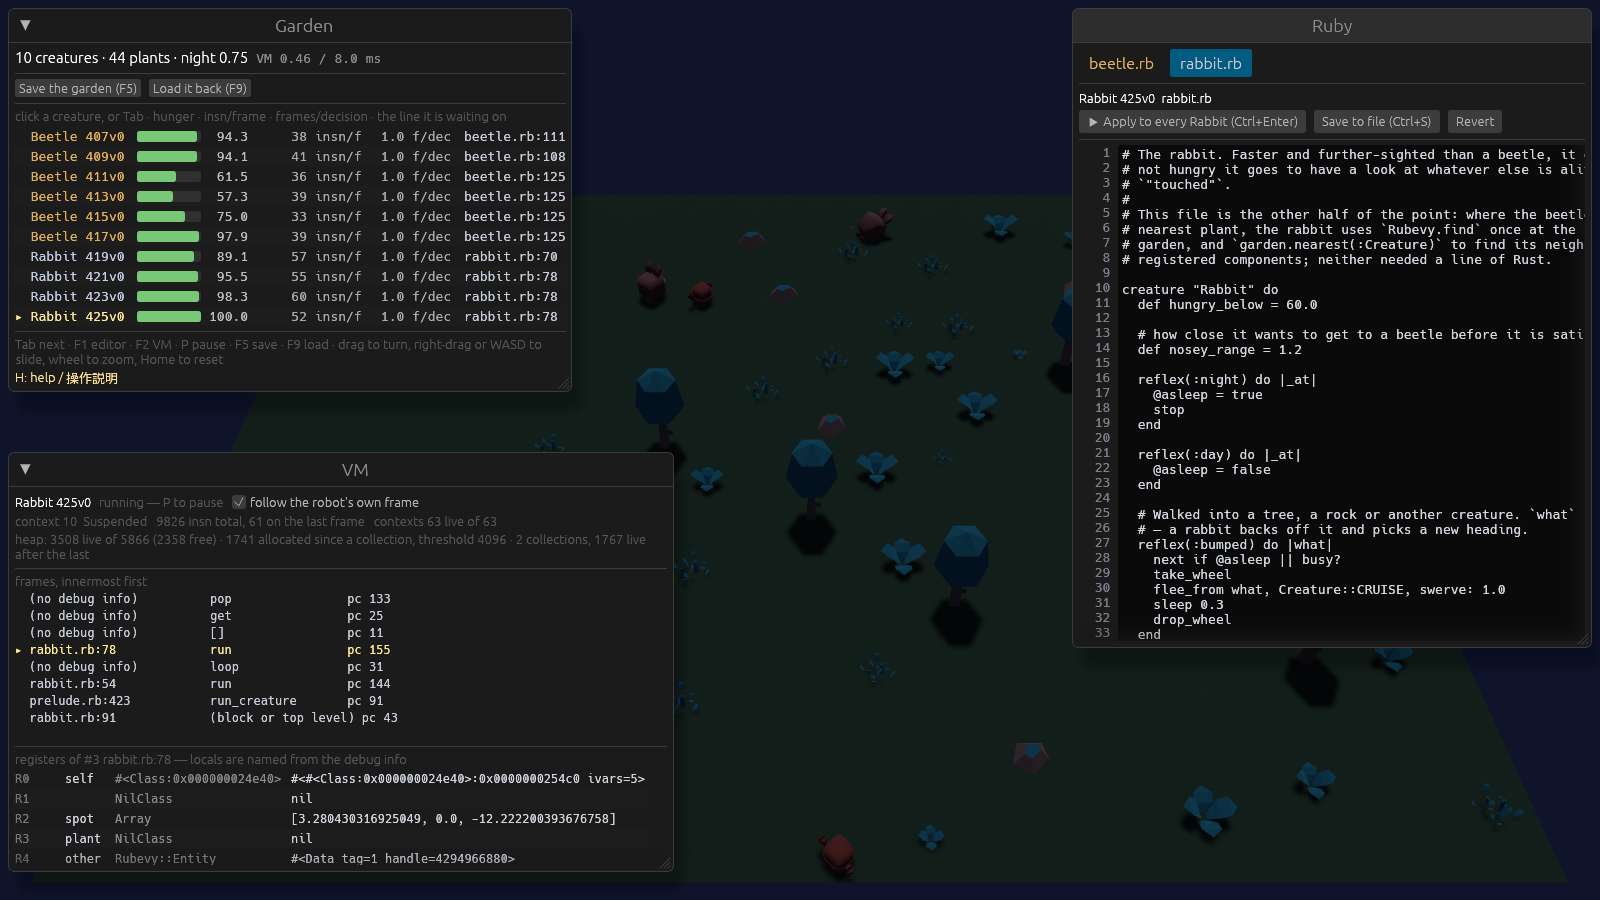
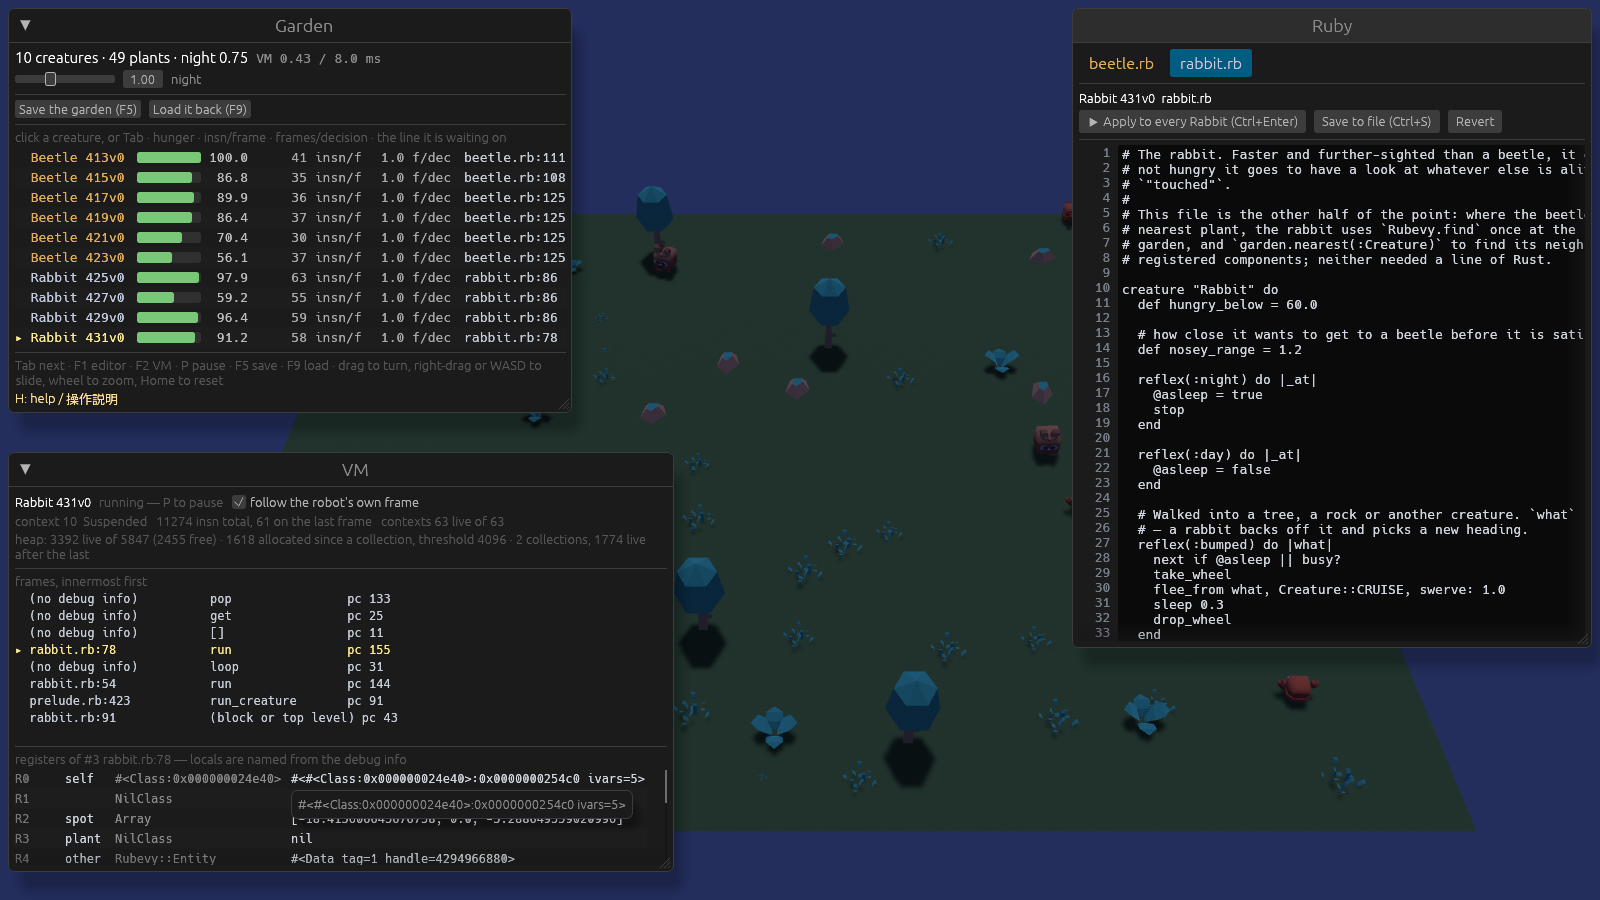
garden: a night that can be seen, and a dial for the author to settle it
The author played the browser build again and the night was still too dark —
the second time a brightness chosen here has been wrong on the screen it is
actually looked at. So this is two changes, and the second is the point.

**The numbers.** The target was given as a figure: 40 to 50 out of 255 for the
mean luminance of the ground at midnight, where G6 measured 26 and an
afternoon measures 81. Four `--shot --at midnight` pictures, measured on G6's
crop, gave the multiplier; the moon goes 400 → 950 lux, the ambient 55 → 190
and the night sky 0.06,0.08,0.17 → 0.14,0.18,0.36, and midnight now measures
44.3. What the search also said is that the ambient is worth almost nothing to
that number (110 → 190 moved it by 1.9) and is in the picture for what it does
to the creatures, not to the mean.

The moon is now close to the dimmest daylight (1,200 lux), which G6 kept a gap
under on purpose — and measuring either side of sunset says that gap was never
what made day and night different. The moon is aimed at `-up`: at sunset it
lies along the horizon and lights nothing (24), at midnight it is overhead
(44), and dusk itself reads 39. The night is a hill, and 950 is its top.

**The dial.** `NightDial`, a slider in the Garden panel, 0.50 to 2.00,
multiplying all three of those together. One dial and not three, because the
question is "how bright does this have to be on your screen" and three
would hand a design decision to whoever asked it. The number is written to the
[…]

diff --git a/garden/src/main.rs b/garden/src/main.rs
@@ -70,22 +70,64 @@ const DAWN_OFFSET: f32 = 0.08;
 /// the garden has.
 const MIDNIGHT: f32 = (0.75 - DAWN_OFFSET) * DAY_LENGTH;
 
-/// **How dark the night is (G6).** The author played the browser build and could not see the
-/// creatures or the trees at night at all, so both numbers below are floors rather than the
-/// nothing they used to be — moonlight, not a power cut.
+/// **How dark the night is (G6, and again in G6b).** The author played the browser build and
+/// could not see the creatures or the trees at night at all; G6 raised these to 400 and 55 and
+/// the author played it again and said it was *still* too dark. These are the third set, chosen
+/// against a number this time: the mean luminance of the ground at midnight, measured off a
+/// `--shot --at midnight` in the strip the panels do not cover, is **44 of 255** where G6's was
+/// 26 and an afternoon is 81.
 ///
 /// `MOON_LUX` is the `DirectionalLight` that stands in for the moon. It is what draws the *edges*:
 /// a creature has a lit side and a shadowed side, and the tree trunks have a direction. The real
-/// moon is about 0.1 lux and this is four thousand times that, which is honest — a night in a
-/// game has to be read, and a photograph of a real moonlit field needs a long exposure to look
-/// like this. What it must not be is the sun: the dimmest *day* the garden has is 1,200 lux at
-/// the horizon, and 400 keeps a clear gap under it.
+/// moon is about 0.1 lux and this is ten thousand times that, which is honest — a night in a game
+/// has to be read, and a photograph of a real moonlit field needs a long exposure to look like
+/// this.
+///
+/// It is close to the *day's* floor now (1,200 lux, the sun on the horizon), which G6 kept a wide
+/// gap under, and measuring either side of sunset says that gap is not what the difference was
+/// made of: dusk reads 39 and the first minute of night reads 24, because **the moon is aimed at
+/// `-up`** — at sunset it lies along the horizon and lights nothing, and only by midnight is it
+/// overhead. The night has a curve of its own, dark at both ends, and the number chosen here is
+/// the number at the top of it.
 ///
 /// `NIGHT_AMBIENT` is what fills the shadowed side, and it is the number that decides whether a
-/// beetle under a tree exists. The day's floor is 120 at the horizon; 55 is under half of that,
-/// so dusk still reads as the light going out.
-const MOON_LUX: f32 = 400.0;
-const NIGHT_AMBIENT: f32 = 55.0;
+/// beetle under a tree exists. It is the weakest of the three by far in what it does to the
+/// measurement — 110 to 190 moved the mean by 1.9 — and it is in the picture for what it does to
+/// the *creatures*, which are small, round and mostly in their own shadow.
+///
+/// All three are multiplied by [`NightDial`], which is the author's own slider.
+const MOON_LUX: f32 = 950.0;
+const NIGHT_AMBIENT: f32 = 190.0;
+/// The colour of the sky at night. It is not what the ground is lit by, but it is most of what a
+/// picture of a dark garden *is*, and the blue is where the night's colour comes from.
+const NIGHT_SKY: [f32; 3] = [0.14, 0.18, 0.36];
+
+/// **The dial (G6b): everything above, multiplied.**
+///
+/// The author played the browser build again and the night was still too dark — which is the
+/// second time a number chosen here has been wrong on the machine it is actually looked at, and
+/// the reason is not that the numbers were badly chosen but that *we cannot see the author's
+/// screen*. A brightness is not a fact about the code; it is a fact about a monitor in a room. So
+/// the slider in the Garden panel multiplies all three night quantities together — moonlight,
+/// ambient and sky — and the number it is left at is written to the log and remembered
+/// (`rubevy_arena::Settings`), so that the author can turn it until the night reads and tell us
+/// one number to bake in here. Multiplying all three by one number is what makes that possible:
+/// two dials would be a design decision handed to somebody who asked a question.
+///
+/// It is not in the headless build. There is nothing to light there.
+#[derive(Resource, Debug, Clone, Copy)]
+pub struct NightDial(pub f32);
+
+impl Default for NightDial {
+    fn default() -> Self {
+        NightDial(1.0)
+    }
+}
+
+/// How far the dial goes. Half the night is still a night; twice it is the author saying the
+/// screen is darker than ours, and past that the moon is the sun.
+pub const NIGHT_DIAL_MIN: f32 = 0.5;
+pub const NIGHT_DIAL_MAX: f32 = 2.0;
 
 /// Plants
 const PLANTS_AT_START: usize = 55;
@@ -901,6 +943,22 @@ fn main() {
             .add_systems(Update, stop_when_over.after(restore_memory).before(save_world));
         }
         None => {
+            // G6b. What the player chose last time — for now, how bright they want the night.
+            // It is read here rather than in a system because the dial is wanted *before the
+            // first frame*: a `--shot` of the night would otherwise be taken at the brightness
+            // the game was built with rather than the one that was chosen. On a PC this is a
+            // file beside the save; in a browser it is a key in the same local storage the save
+            // uses (`platform.rs`).
+            let settings = rubevy_arena::Settings::load(
+                platform::SETTINGS_FILE,
+                "garden: what the panel remembers. Delete a line to go back to the default.",
+                platform::read,
+                platform::write,
+            );
+            let night = settings
+                .number("night")
+                .map(|n| n.clamp(NIGHT_DIAL_MIN, NIGHT_DIAL_MAX))
+                .unwrap_or(1.0);
             app.add_plugins((
                 DefaultPlugins
                     .set(AssetPlugin {
@@ -935,6 +993,8 @@ fn main() {
                 open: shot.is_none() || args.iter().any(|a| a == "--guide"),
                 ..guide_text::guide()
             })
+            .insert_resource(NightDial(night))
+            .insert_resource(settings)
             .init_resource::<Orbit>()
             .init_resource::<window::Watched>()
             .init_resource::<window::Paused>()
@@ -1778,7 +1838,11 @@ fn day_night(
     mut sun: Query<(&mut Transform, &mut DirectionalLight), With<Sun>>,
     ambient: Option<ResMut<GlobalAmbientLight>>,
     clear: Option<ResMut<ClearColor>>,
+    // G6b. `Option` for the same reason the two above it are: the headless run has no light to
+    // turn up and no panel to turn it up with
+    dial: Option<Res<NightDial>>,
 ) {
+    let dial = dial.map(|d| d.0).unwrap_or(1.0);
     // the world's clock, not the process's: a garden read back from a file goes on from the hour
     // it was saved at (`Sky::shift`), and in a run that loaded nothing the two are the same number
     let now = world_now(&time, &sky);
@@ -1793,7 +1857,7 @@ fn day_night(
     // sun, still casting the shadows that say the world is 3D
     let from = if night { -up } else { up };
     let (color, illuminance) = if night {
-        (Color::srgb(0.62, 0.70, 1.0), MOON_LUX)
+        (Color::srgb(0.62, 0.70, 1.0), MOON_LUX * dial)
     } else {
         // low sun is orange, high sun is white
         let noon = height.clamp(0.0, 1.0);
@@ -1812,7 +1876,7 @@ fn day_night(
     if let Some(mut ambient) = ambient {
         if night {
             ambient.color = Color::srgb(0.45, 0.54, 0.85);
-            ambient.brightness = NIGHT_AMBIENT;
+            ambient.brightness = NIGHT_AMBIENT * dial;
         } else {
             ambient.color = Color::srgb(0.7, 0.8, 1.0);
             ambient.brightness = 120.0 + 260.0 * height.clamp(0.0, 1.0);
@@ -1820,7 +1884,10 @@ fn day_night(
     }
     if let Some(mut clear) = clear {
         clear.0 = if night {
-            Color::srgb(0.06, 0.08, 0.17)
+            // the same blue, turned up with the rest of it: a sky that stayed put while the
+            // ground brightened would read as fog rather than as a lighter night
+            let [r, g, b] = NIGHT_SKY;
+            Color::srgb((r * dial).min(1.0), (g * dial).min(1.0), (b * dial).min(1.0))
         } else {
             let noon = height.clamp(0.0, 1.0);
             Color::srgb(0.35 + 0.15 * noon, 0.5 + 0.22 * noon, 0.7 + 0.22 * noon)

diff --git a/garden/src/window.rs b/garden/src/window.rs
@@ -505,6 +505,8 @@ pub fn draw_hud(
     creatures: Query<(Entity, &Creature, &Hunger, &Mind)>,
     mut watched: ResMut<Watched>,
     mut editor: ResMut<Editor>,
+    mut dial: ResMut<crate::NightDial>,
+    mut settings: Option<ResMut<rubevy_arena::Settings>>,
 ) {
     let Ok(ctx) = contexts.ctx_mut() else { return };
     let rows = hud_rows(&creatures);
@@ -545,6 +547,7 @@ pub fn draw_hud(
                     ui.label(egui::RichText::new("paused (P)").color(amber).strong());
                 }
             });
+            night_dial(ui, &mut dial, &mut settings);
             // The garden's own save, as two buttons (G5), **above** the list of creatures rather
             // than below it. The first version had them at the foot, beside the key hint, where
             // they read better — and in a browser at 1280×800 with fourteen creatures they were
@@ -657,6 +660,45 @@ pub fn draw_hud(
                     .strong(),
             );
         });
+}
+
+/// **The night dial (G6b).** One slider, multiplying the moon, the ambient light and the sky
+/// together (`crate::NightDial`).
+///
+/// It is in this panel rather than in the guide because it is not an explanation, and it is a
+/// slider rather than a key because the question it asks — *how bright does the night have to be
+/// on your screen?* — is answered by moving something and looking, not by pressing a key three
+/// times and counting. The number is shown to two decimal places for the same reason it is
+/// written to the log and remembered: it is meant to be **read off and reported**, and then baked
+/// into `MOON_LUX` and the two beside it so that the dial goes back to being 1.0 for everybody.
+///
+/// It writes to the store when the drag *stops*, not while it moves. The garden brightens under
+/// the pointer as it is dragged — that is the whole point of a slider — but a `localStorage`
+/// write and a line of log on every one of sixty frames a second would be neither.
+fn night_dial(
+    ui: &mut egui::Ui,
+    dial: &mut crate::NightDial,
+    settings: &mut Option<bevy::prelude::ResMut<rubevy_arena::Settings>>,
+) {
+    let mut value = dial.0;
+    let slider = ui
+        .add(
+            egui::Slider::new(&mut value, crate::NIGHT_DIAL_MIN..=crate::NIGHT_DIAL_MAX)
+                .fixed_decimals(2)
+                .text("night"),
+        )
+        .on_hover_text(
+            "how bright the night is: the moonlight, the light that fills the shadows and the sky, all multiplied by this. 1.00 is what the game is built with — turn it until the night reads on your screen, and the number in the log is the one to tell us",
+        );
+    if slider.changed() {
+        dial.0 = value;
+    }
+    // the click and the arrow keys change it without a drag; the drag reports itself when it ends
+    if slider.drag_stopped() || (slider.changed() && !slider.dragged()) {
+        if let Some(settings) = settings.as_mut() {
+            settings.set("night", format!("{:.2}", dial.0));
+        }
+    }
 }
 
 /// 0 is dead, 100 is stuffed. Green while it is comfortable, amber under the line a beetle's own

diff --git a/garden/src/platform.rs b/garden/src/platform.rs
@@ -38,6 +38,13 @@ mod imp {
     /// mean two different things, and this is the sentence that says which.
     pub const SAVE_WHERE: &str = "the whole garden, as JSON, in garden.save.json beside the game";
 
+    /// **Where the panel's choices are kept (G6b)**: a small text file beside the save, in the
+    /// directory the game was started from. It holds the guide's language and the night's dial —
+    /// two lines of `key=value` — and it is written only when one of them is changed with the
+    /// mouse. Deleting it puts everything back to its default, which is what a file the player
+    /// can see is for.
+    pub const SETTINGS_FILE: &str = "garden.settings.txt";
+
     /// Where the Ruby lives: next to the crate, from the workspace root or from the crate.
     pub fn ruby_dir() -> PathBuf {
         let here = Path::new(env!("CARGO_MANIFEST_DIR")).join("ruby");
@@ -125,6 +132,12 @@ mod imp {
 
     pub const SAVE_WHERE: &str =
         "the whole garden, as JSON, in this browser's local storage (key garden:garden.save.json)";
+
+    /// Where the panel's choices are kept (G6b). There are no files here either: `read` and
+    /// `write` below make this the `localStorage` key `garden:garden.settings.txt`, beside the
+    /// save's own, so the language the player clicked and the night they dialled in survive the
+    /// page being closed — in that browser and nowhere else.
+    pub const SETTINGS_FILE: &str = "garden.settings.txt";
 
     /// Keys of `localStorage` are this followed by the file's path.
     const STORE: &str = "garden:";

diff --git a/docs/garden.md b/docs/garden.md
@@ -1124,33 +1124,81 @@ place.
 That is what makes `"night"` legible on screen rather than a number in a log: the creatures stop
 where they stand when it arrives, and the picture says so.
 
-### How dark the night is, and why it changed (G6)
+### How dark the night is, and why it changed twice (G6, G6b)
 
 The author played the browser build and could not see the garden at night at all — not dimly, at
 all. The numbers were an honest guess at what a night looks like and a wrong guess at what a night
 *on a screen* has to be, so they were raised until a picture of midnight was readable, and no
-further: the point of a night is still that it is one.
+further: the point of a night is still that it is one. Then the author played **that** and said it
+was still too dark, and named a number to aim at — a mean luminance of 40 to 50 out of 255 for the
+ground at midnight, against the 81 an afternoon reads.
 
-| | before | after |
+| | G0 | G6 | G6b |
+|---|---|---|---|
+| the moon (`DirectionalLight.illuminance`) | 300 lux | 400 lux | **950 lux** (`MOON_LUX`) |
+| the ambient light (`GlobalAmbientLight.brightness`) | 30 | 55 | **190** (`NIGHT_AMBIENT`) |
+| the moon's colour | `srgb(0.55, 0.64, 1.00)` | `srgb(0.62, 0.70, 1.00)` | unchanged |
+| the ambient colour | `srgb(0.35, 0.45, 0.80)` | `srgb(0.45, 0.54, 0.85)` | unchanged |
+| the sky (`ClearColor`) | `srgb(0.03, 0.04, 0.10)` | `srgb(0.06, 0.08, 0.17)` | **`srgb(0.14, 0.18, 0.36)`** (`NIGHT_SKY`) |
+| **the ground's mean luminance at midnight** | 18 | 26 | **44** |
+
+The moon is a directional light and it draws *edges*: a creature has a lit side and a shadowed
+side and the tree trunks have a direction, which is what stops the garden looking like a flat
+black card. The ambient is what fills the shadowed side, and it is the one that decides whether a
+beetle standing under a tree exists at all. Raising only the moon makes the tops of things bright
+and the rest of them still missing; raising only the ambient makes everything grey and flat.
+
+What G6b measured, which G6 had not, is **how much each of the three is worth to that number**.
+Multiplying all three by 2 took 25.6 to 39.2; raising the ambient alone from 110 to 190 on top of
+that took it to 41.1 — 80 points of ambient light bought 1.9 of luminance, and the moon bought
+about 3 per 100 lux. The mean is the moon's to move. The ambient is in the final numbers for what
+it does to the *creatures*, which are small, round and mostly in their own shadow, and not for
+what it does to the measurement.
+
+The moon is now close to the dimmest *daylight* the garden has (1,200 lux at the horizon), which
+G6 kept a wide gap under on purpose — and measuring either side of sunset says that gap is not
+what the difference between day and night is made of. **The moon points at `-up`**: at sunset it
+lies along the horizon and lights nothing, and only by midnight is it overhead. So the night has a
+curve of its own, and 950 lux is the number at the top of it:
+
+| the clock | | the ground |
 |---|---|---|
-| the moon (`DirectionalLight.illuminance`) | 300 lux | **400 lux** (`MOON_LUX`) |
-| the ambient light (`GlobalAmbientLight.brightness`) | 30 | **55** (`NIGHT_AMBIENT`) |
-| the moon's colour | `srgb(0.55, 0.64, 1.00)` | `srgb(0.62, 0.70, 1.00)` |
-| the ambient colour | `srgb(0.35, 0.45, 0.80)` | `srgb(0.45, 0.54, 0.85)` |
-| the sky (`ClearColor`) | `srgb(0.03, 0.04, 0.10)` | `srgb(0.06, 0.08, 0.17)` |
-
-The two that matter are the first two, and they do different jobs. The moon is a directional light
-and it draws *edges*: a creature has a lit side and a shadowed side and the tree trunks have a
-direction, which is what stops the garden looking like a flat black card. The ambient is what
-fills the shadowed side, and it is the one that decides whether a beetle standing under a tree
-exists at all. Raising only the moon made the tops of things bright and the rest of them still
-missing; raising only the ambient made everything grey and flat. Both, and the day is still a day:
-the dimmest daylight the garden has is 1,200 lux at the horizon with an ambient of 120, so
-moonlight is a third of the worst daylight and the eye reads the difference immediately. Measured
-on the picture below against the same crop of `docs/garden.png`, the ground's mean luminance is
-**18 → 26 out of 255** at midnight, against **81** in the afternoon.
+| `--at 22` | afternoon, the sun a third of the way up | 80 |
+| `--at 24.6` | dusk, the sun on the horizon | 39 |
+| `--at 26.4` | just after sunset, the moon on the horizon | 24 |
+| `--at midnight` | the moon overhead | **44** |
 
 ![the garden at midnight](garden-night.png)
+
+#### The dial, which is a question for the author
+
+Twice now a brightness chosen here has been wrong on the machine it is actually looked at, and the
+reason is not that the numbers were badly chosen: **a brightness is not a fact about the code, it
+is a fact about a monitor in a room**, and we cannot see the author's. So the Garden panel has a
+`night` slider, 0.50 to 2.00, which multiplies all three of the numbers above together:
+
+```
+night = 1.00   the game as built            night = 2.00   twice everything
+```
+
+One dial and not three, because the question being asked is "how bright does the night have to be
+on your screen" and three dials would be handing a design decision to somebody who asked a
+question. The number it is left at is **written to the log** (`setting: night = 1.30 …`, which in
+a browser is the console) and **remembered** — `garden.settings.txt` beside the save on a PC, a
+`localStorage` key in a browser — so the answer can be read off and reported, and then baked into
+`MOON_LUX` and the two beside it so the dial goes back to 1.00 for everybody.
+
+The file is `key=value` lines and nothing else, and deleting it puts everything back:
+
+```
+# garden: what the panel remembers. Delete a line to go back to the default.
+night=1.30
+lang=ja
+```
+
+It is also what made the three numbers above cheap to find: a shot taken with `night=1.50` in that
+file needs no rebuild, so the search for the multiplier that lands in 40–50 was four pictures and
+no compiler.
 
 `--at SECONDS` is what makes that picture cheap to take. It moves `Sky::shift` — G3's clock, the
 one a loaded garden uses to go on from the hour it was saved at — and nothing else, so the world
